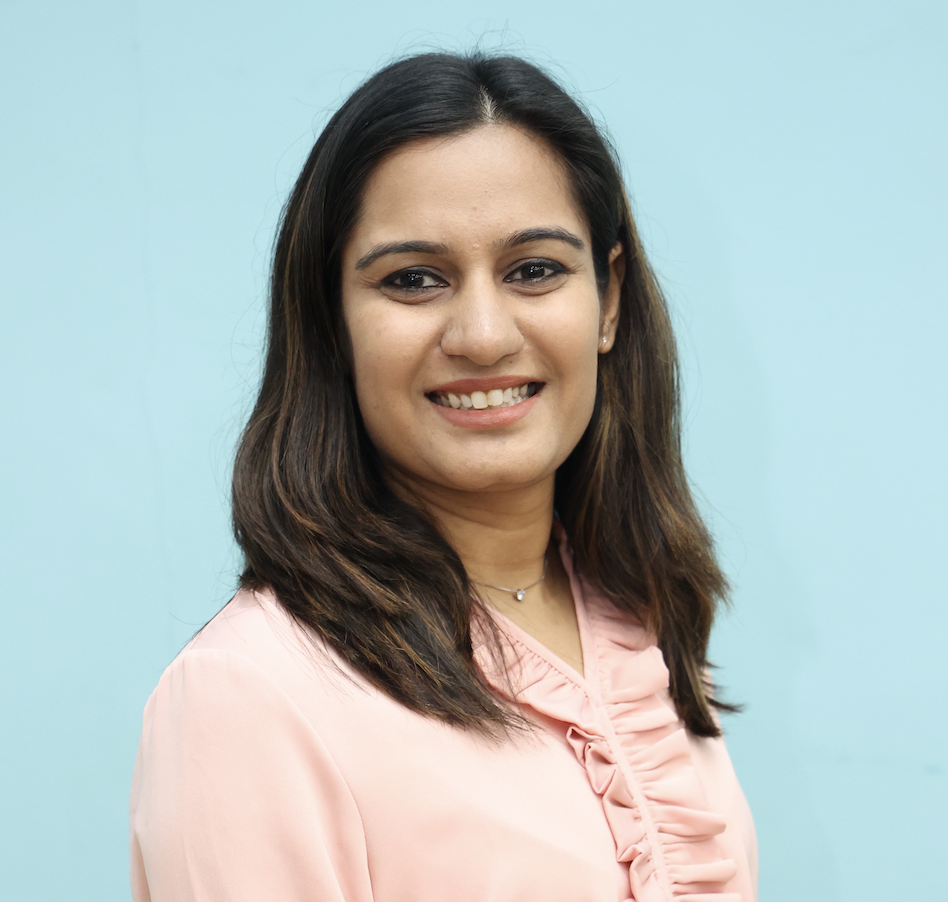
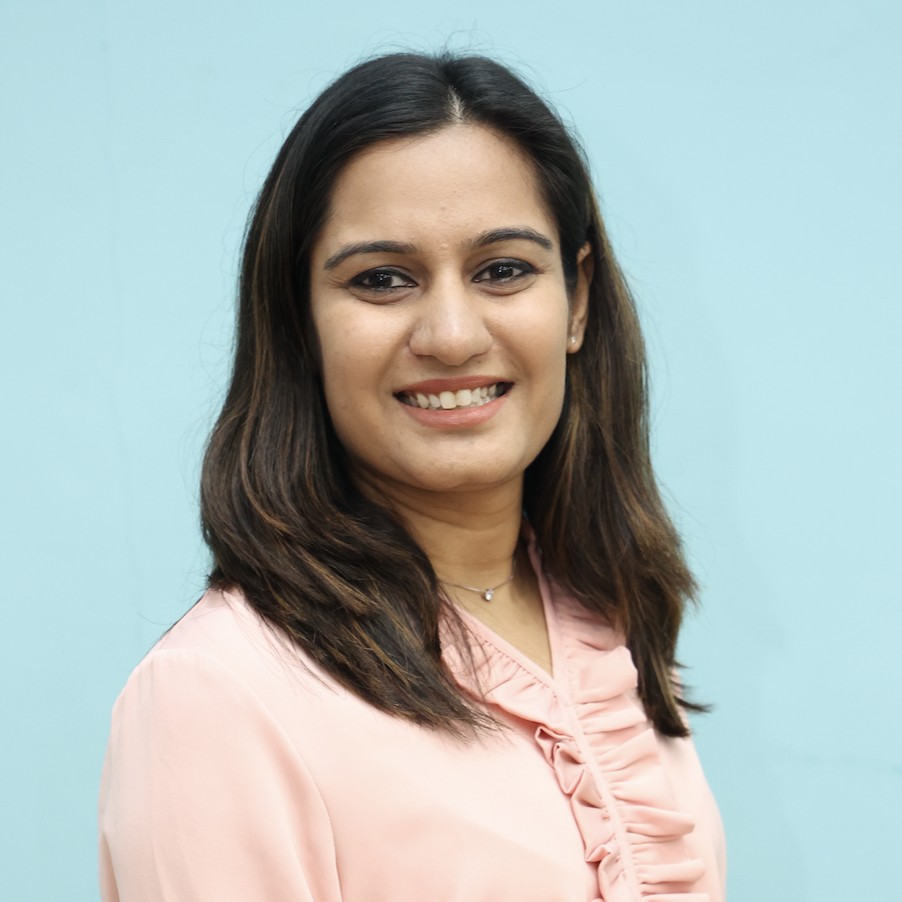
Added images for Nihaar Khanna and Dr. Divya Bhatia, and updated the index.html to include these images in the team member sections. Re-sized and aligned the images as well.

diff --git a/index.html b/index.html
@@ -54,6 +54,9 @@
             <div class="team-grid">
                 <!-- Team Member 1 -->
                 <div class="team-member">
+                    <div class="member-image">
+                        <img src="images/divya_bhatia.jpg" alt="Dr. Divya Bhatia">
+                    </div>
                     <div class="member-info">
                         <h3>Dr. Divya Bhatia</h3>
                         <p class="role">Principal Investigator</p>
@@ -94,6 +97,9 @@ As Digital Memory Research Team, we are focused on understanding how human cogni
 
                 <!-- Team Member 5 -->
                 <div class="team-member">
+                    <div class="member-image">
+                        <img src="images/nihaar_khanna.jpg" alt="Nihaar Khanna">
+                    </div>
                     <div class="member-info">
                         <h3>Nihaar Khanna</h3>
                         <p class="role">Research Assistant</p>

diff --git a/css/styles.css b/css/styles.css
@@ -195,6 +195,24 @@ button {
     transform: translateY(-5px);
 }
 
+.member-image {
+    width: 100%;
+    height: 300px;
+    overflow: hidden;
+    background-color: var(--light-color);
+    display: flex;
+    align-items: center;
+    justify-content: center;
+    aspect-ratio: 1 / 1;
+}
+
+.member-image img {
+    width: 100%;
+    height: 100%;
+    object-fit: cover;
+    object-position: top;
+}
+
 .member-info {
     padding: 2rem;
 }
